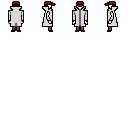
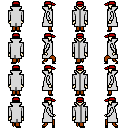
got the guy to animate, had to adjust the game loop a bit. The animation might be too fast still.

diff --git a/src/game.py b/src/game.py
@@ -37,30 +37,13 @@ while done == False:
             if event.key == pygame.K_ESCAPE:
                 done = True
 
-    # Handle player movement
-    pressed = pygame.key.get_pressed()
-
-    dx = pressed[pygame.K_d] - pressed[pygame.K_a]
-    dy = pressed[pygame.K_s] - pressed[pygame.K_w]
     
-
-    if pressed[pygame.K_w]:
-        level.walk_animation(0)
-    elif pressed[pygame.K_s]:
-        level.walk_animation(2)
-    elif pressed[pygame.K_a]:
-        level.walk_animation(3)
-    elif pressed[pygame.K_d]:
-        level.walk_animation(1)
-            
-    level.move_player(dx, dy)
-    level.update_objects()
     
     # Set the screen background
     screen.fill(white)
  
     # ALL CODE TO DRAW SHOULD GO BELOW THIS COMMENT
-
+    
     background, overlay_dict = level.render()
     overlays = pygame.sprite.RenderUpdates()
     for (x, y), image in overlay_dict.iteritems():
@@ -70,10 +53,32 @@ while done == False:
     screen.blit(background, (0, 0))
     overlays.draw(screen)
     
-    #sprites.clear(screen, background)
+    level.game_objects.clear(screen, background)
+    level.update_objects()
+    
+    if level.player.animation is None:
+        # Handle player movement
+        pressed = pygame.key.get_pressed()
+
+        dx = pressed[pygame.K_d] - pressed[pygame.K_a]
+        dy = pressed[pygame.K_s] - pressed[pygame.K_w]
+        
+
+        if pressed[pygame.K_w]:
+            level.walk_animation(0)
+        elif pressed[pygame.K_s]:
+            level.walk_animation(2)
+        elif pressed[pygame.K_a]:
+            level.walk_animation(3)
+        elif pressed[pygame.K_d]:
+            level.walk_animation(1)
+                
+    level.move_player(2*dx, 2*dy)
+    level.player.update()
+    
     dirty = level.game_objects.draw(screen)
     overlays.draw(screen)
-    #pygame.display.update(dirty)
+    pygame.display.update(dirty)
 
     # Get mouse position
     click = pygame.mouse.get_pressed()

diff --git a/src/objects.py b/src/objects.py
@@ -18,7 +18,8 @@ class GameObject(pygame.sprite.Sprite):
         else:
             self.rect = rect
         self.pos = utils.Point(position[0], position[1])
-        self.frames = frames
+        if frames:
+            self.frames = frames
         self.animation = self.stand_animation()
         
     @property
@@ -97,7 +98,8 @@ class Player(Person):
         # This animation is hardcoded for 4 frames and 16x24 map tiles
         for frame in range(4):
             self.image = self.frames[self.direction][frame]
-
+            yield None
+            yield None
 
     def update(self, *args):
         """Run the current animation or just stand there if no animation set."""
